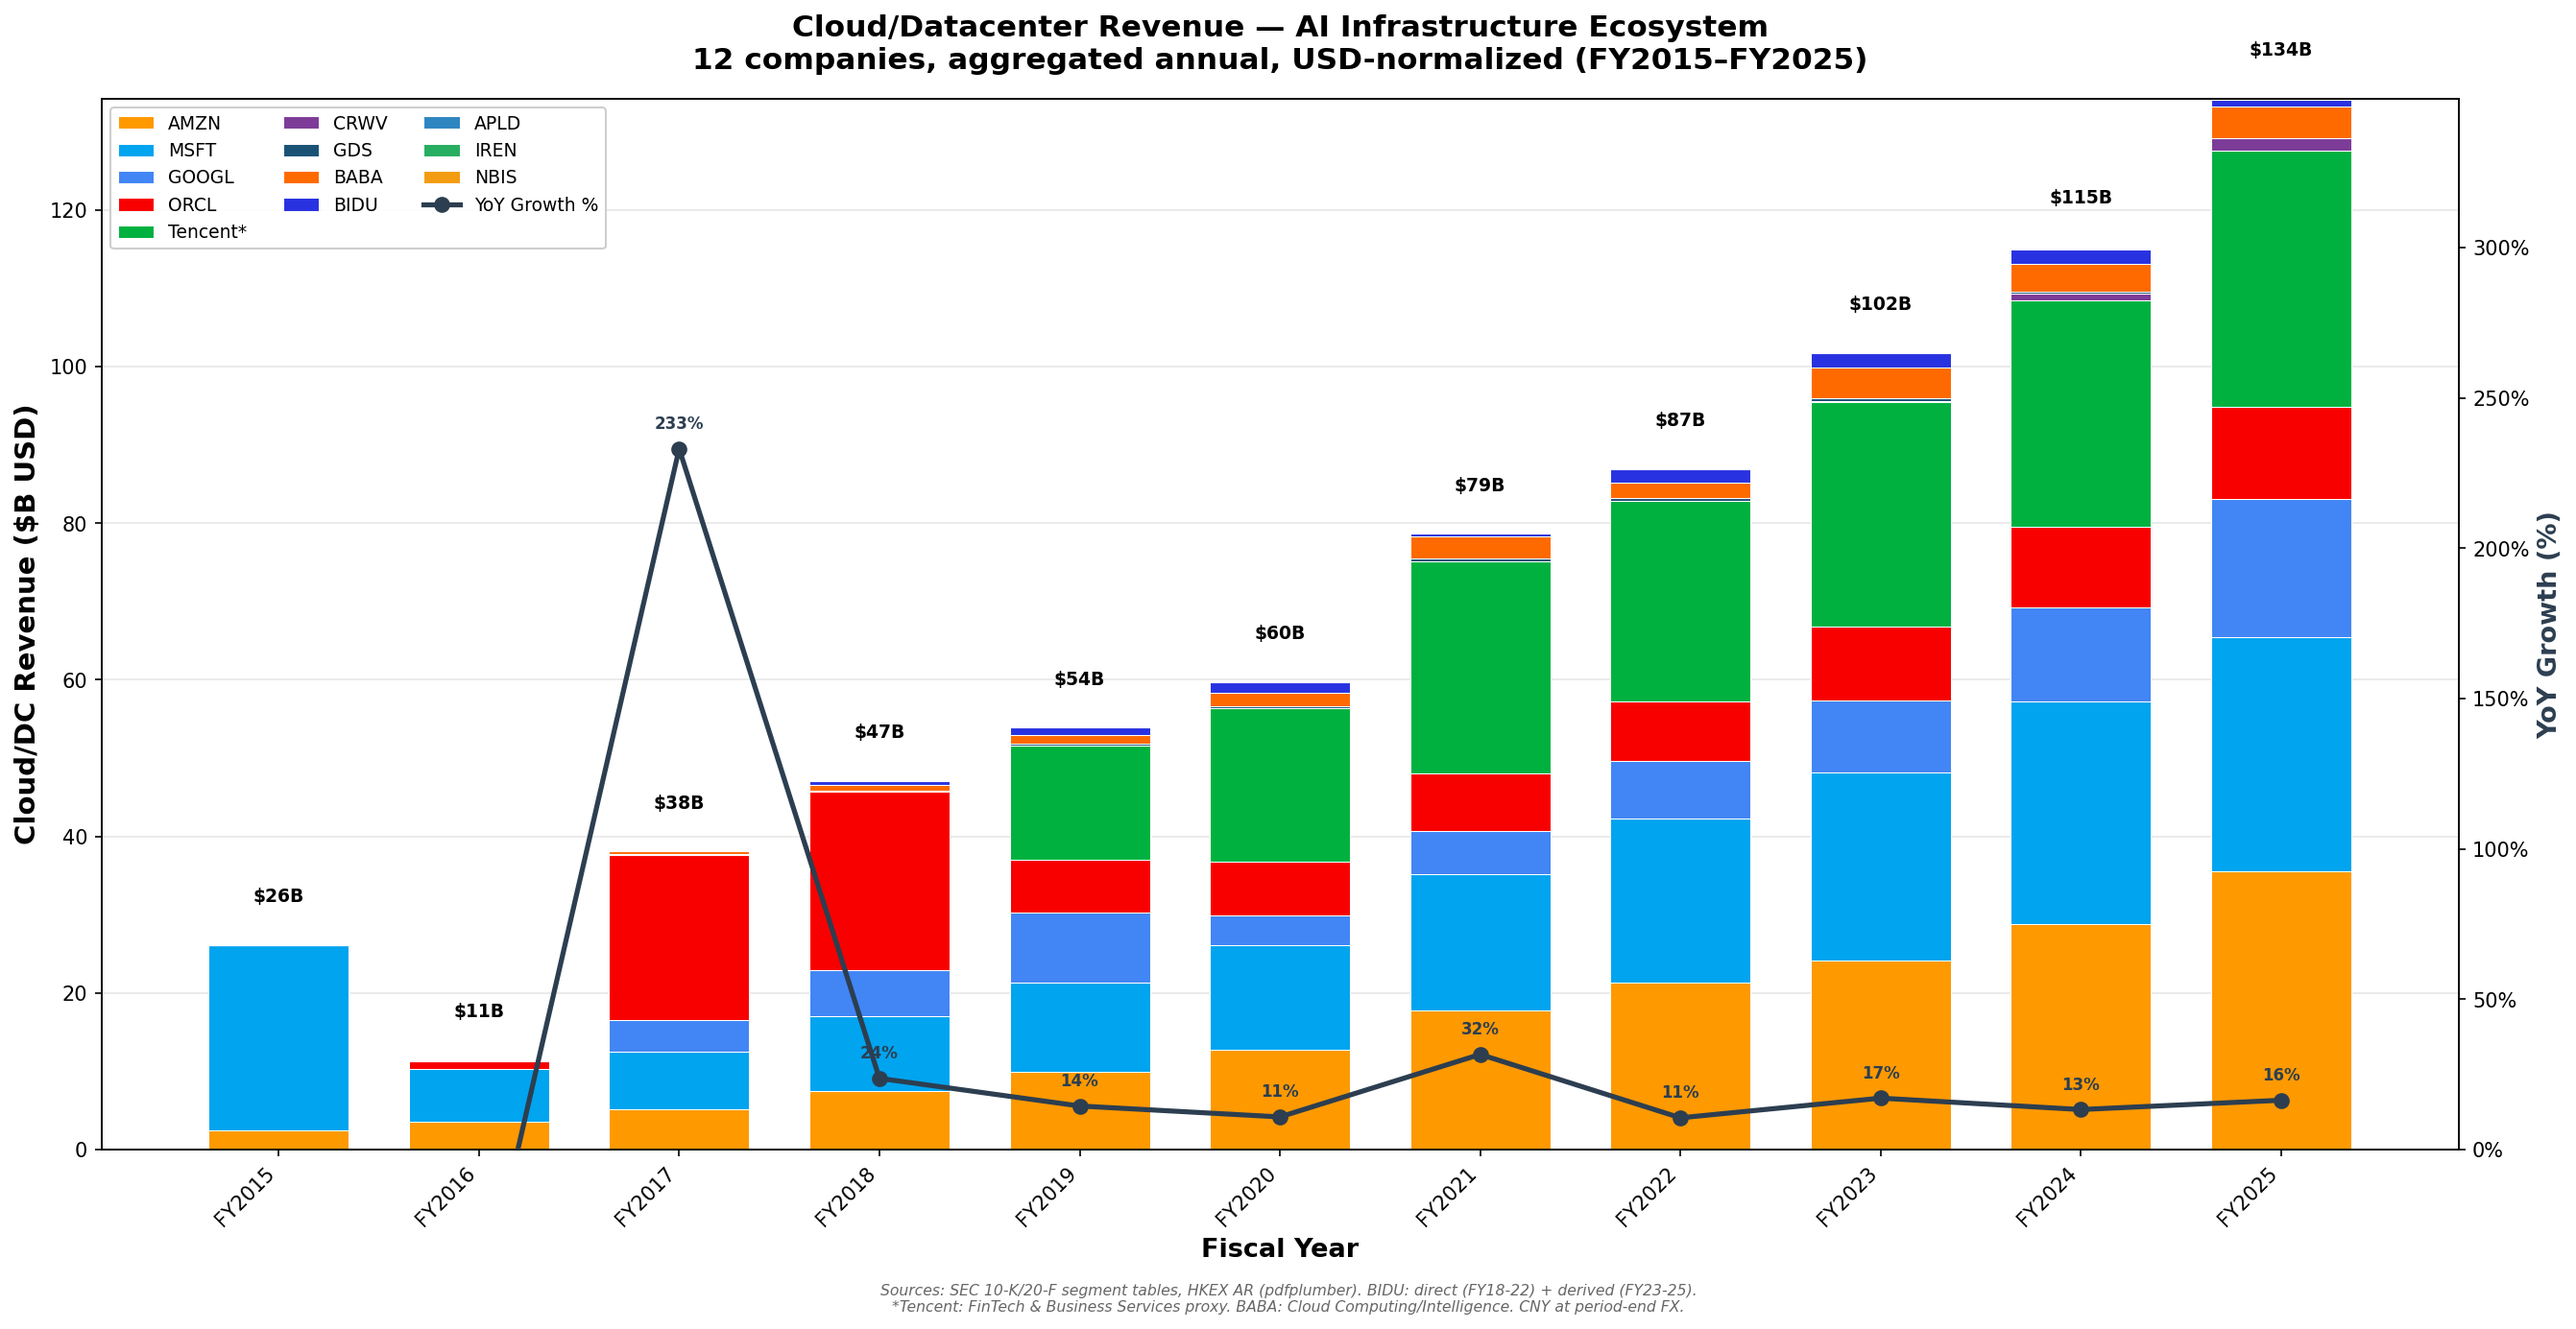
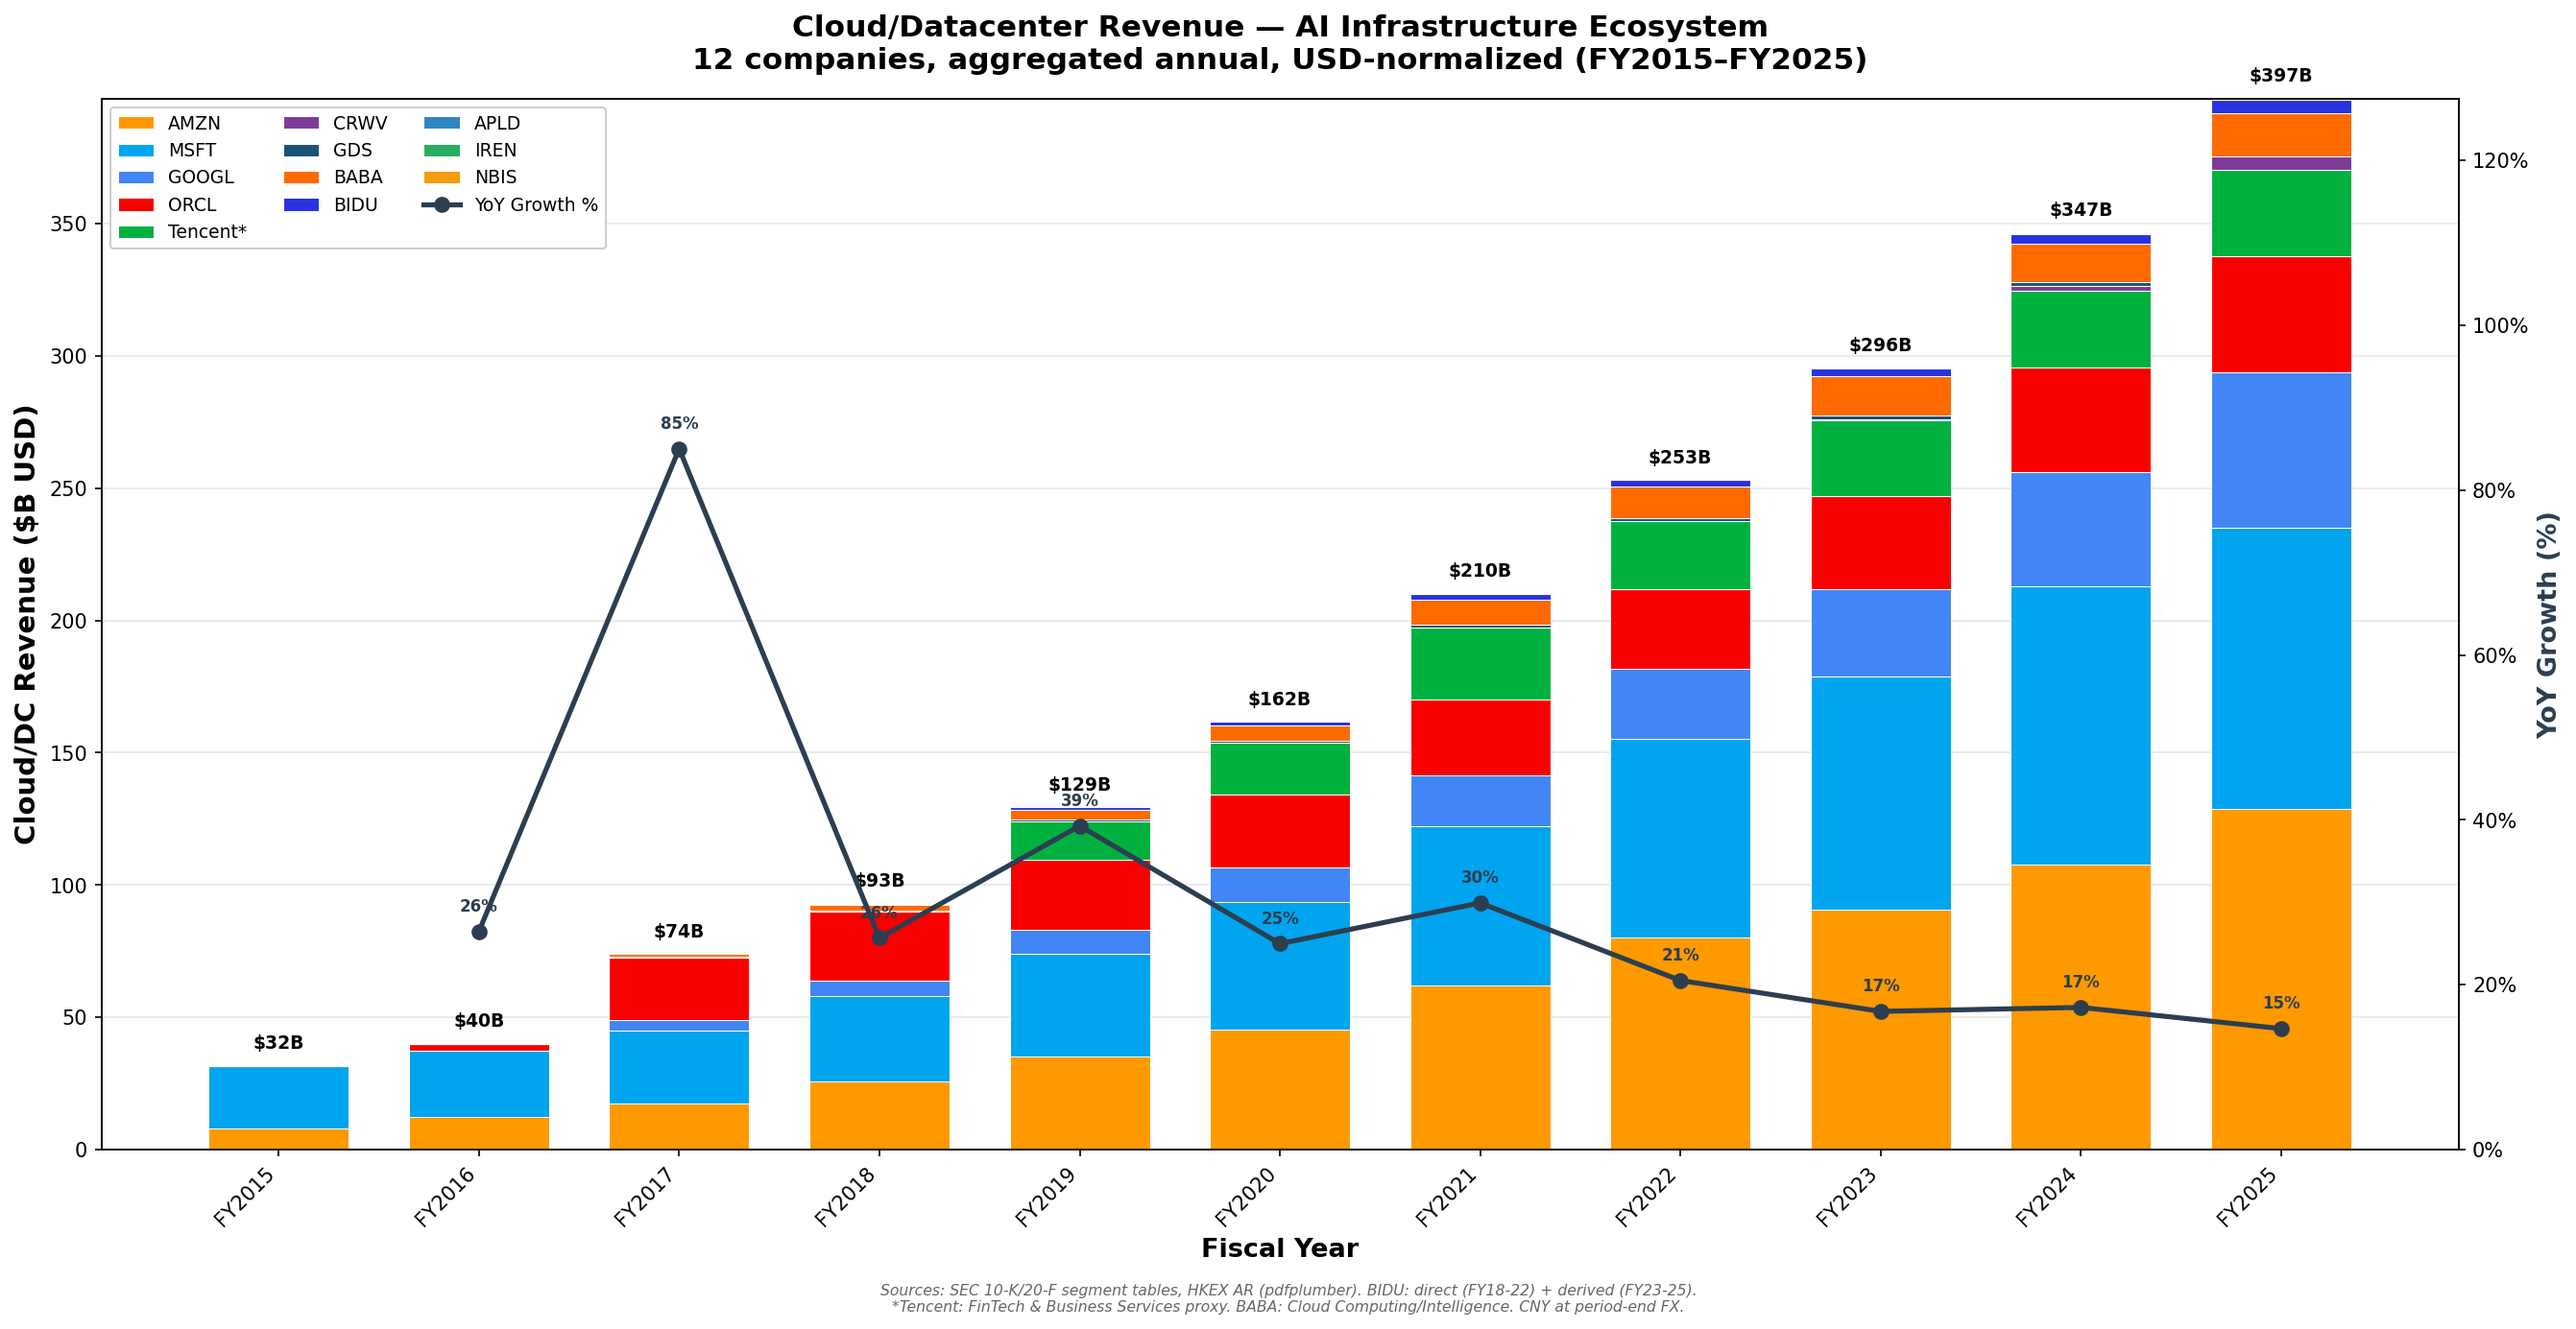
fix(charts): restrict PNG query to period_type='FY' only
Same bug that affected the interactive chart (commit eb4cc2d) also
lived in the static PNG generator — the annual query joined on
period_token='AR' but didn't filter on e.period_type='FY', so the
reconcile-derived Q4 rows that share the annual source_document were
silently overwriting full-year values in the Python-side aggregation.

Fixed; regenerated charts/cloud_revenue_annual.png (the README
landing-page image). Totals now reflect true FY values: $32B FY2015
growing to $397B FY2025.

diff --git a/src/capex/exporters/charts.py b/src/capex/exporters/charts.py
@@ -67,7 +67,8 @@ def generate_cloud_revenue_chart(
         "FROM extractions e "
         "JOIN source_documents sd ON e.source_document_id = sd.id "
         "WHERE e.metric_key = 'cloud_segment_revenue' "
-        "AND sd.period_token = 'AR'"
+        "AND sd.period_token = 'AR' "
+        "AND e.period_type = 'FY'"
     ).fetchall()
     conn.close()
 
